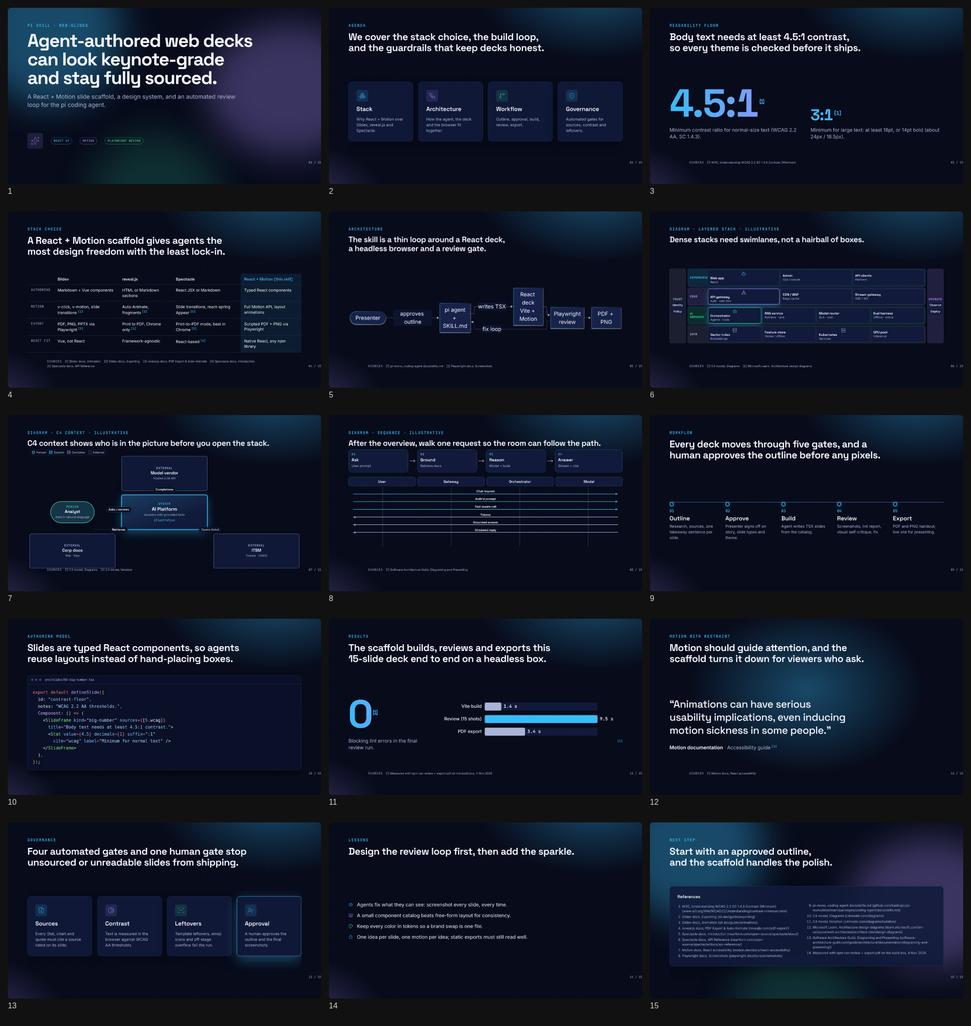
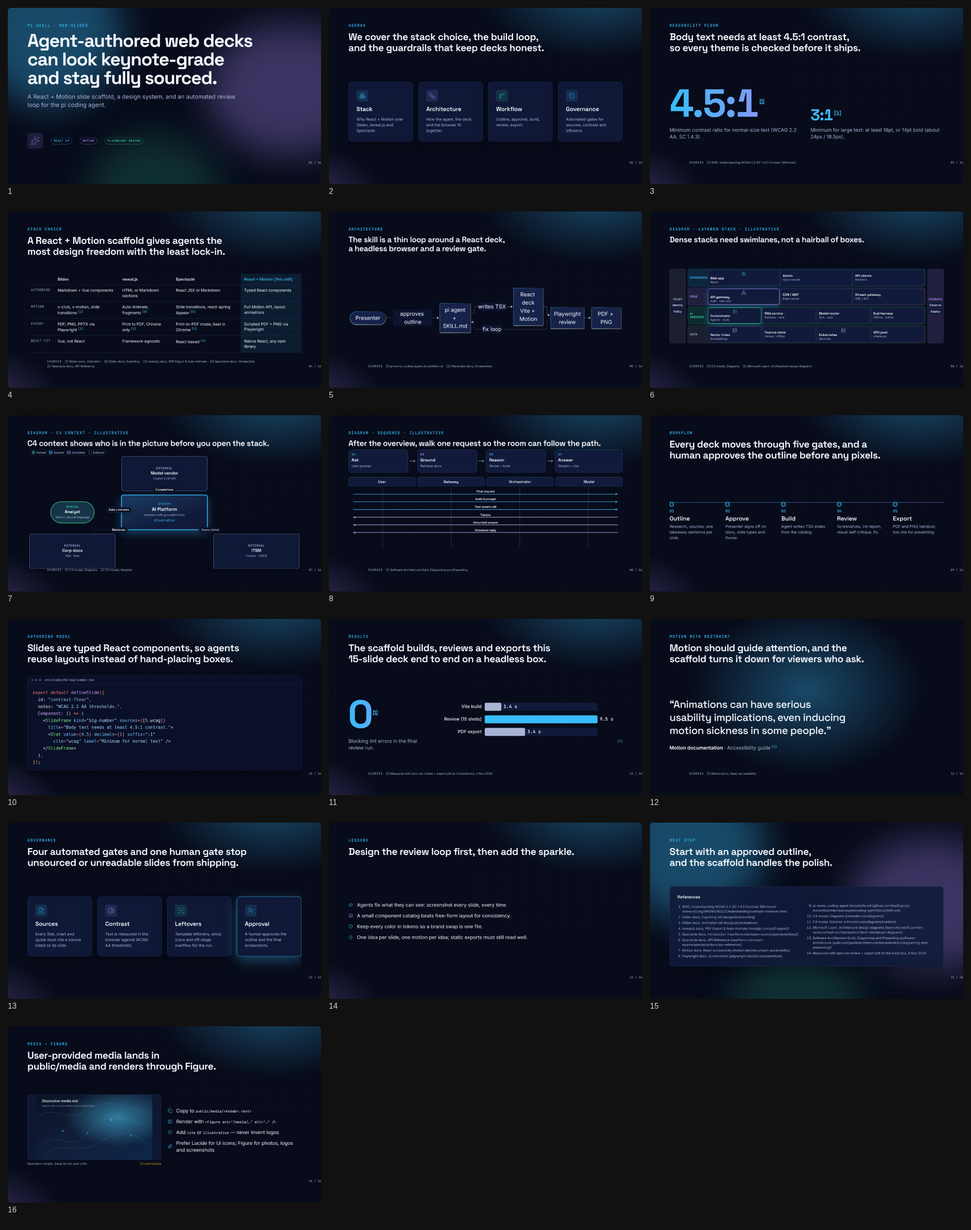
Teach agents to insert user media via Figure and media-guide
Add <Figure> (alt, fit, caption, cite/illustrative, frame/shadow, maxHeight), public/media/ with illustrative SVG, media-guide.md agent workflow, lint rules img-alt/img-broken, example slide 16-media-figure, and SKILL/workflow/catalog/checklist updates.

diff --git a/skills/web-slides/template/src/deck/deck.css b/skills/web-slides/template/src/deck/deck.css
@@ -281,3 +281,24 @@ table.compare th.col-hi { color: var(--accent); }
 .dg-c4-legend .kind-system::before { border-color: var(--accent); background: color-mix(in srgb, var(--accent) 40%, transparent); }
 .dg-c4-legend .kind-container::before { border-color: var(--accent-2); background: color-mix(in srgb, var(--accent-2) 30%, transparent); }
 .dg-c4-legend .kind-external::before { border-style: dashed; border-color: var(--text-muted); background: transparent; }
+
+
+/* ---- media / Figure ---- */
+.deck-figure { display: flex; flex-direction: column; gap: 12px; margin: 0; min-width: 0; max-width: 100%; }
+.deck-figure-stage { position: relative; display: flex; align-items: center; justify-content: center; width: 100%;
+  max-height: var(--figure-max-h, 620px); overflow: hidden; border-radius: var(--radius-sm);
+  background: color-mix(in srgb, var(--surface) 80%, transparent); flex: 0 1 auto; }
+.deck-figure.is-framed .deck-figure-stage { border: 1px solid var(--border); }
+.deck-figure.is-shadow .deck-figure-stage { box-shadow: 0 18px 48px color-mix(in srgb, var(--bg) 50%, transparent); }
+.deck-figure-stage img { display: block; width: 100%; height: 100%; max-height: var(--figure-max-h, 620px); object-position: center; }
+.deck-figure-stage.fit-contain img { object-fit: contain; }
+.deck-figure-stage.fit-cover img { object-fit: cover; }
+.deck-figure-cap { display: flex; align-items: baseline; gap: 10px; flex-wrap: wrap;
+  font: 500 18px/1.35 var(--font-body); color: var(--text-muted); }
+.deck-figure-caption { flex: 1 1 auto; }
+.deck-figure .illustrative, .deck-figure .cite { flex: 0 0 auto; }
+/* Text overlay when placing copy on top of a photo — agent must ensure WCAG by eye */
+.deck-figure-overlay { position: relative; }
+.deck-figure-overlay .deck-figure-stage::after { content: ""; position: absolute; inset: 0;
+  background: linear-gradient(180deg, transparent 35%, color-mix(in srgb, var(--bg) 88%, transparent) 100%);
+  pointer-events: none; }

diff --git a/skills/web-slides/template/src/slides/16-media-figure.tsx b/skills/web-slides/template/src/slides/16-media-figure.tsx
@@ -1,0 +1,39 @@
+import { Appear, Figure, IconList, SlideFrame } from "../deck/components";
+import { defineSlide } from "../deck/types";
+import { Copy, Image, ShieldCheck, Sparkles } from "lucide-react";
+
+export default defineSlide({
+  id: "media-figure",
+  notes:
+    "Illustrative only — shows how the agent places a user-provided file in public/media/ and renders it with <Figure>. Replace the SVG with the user's asset; never invent logos.",
+  Component: () => (
+    <SlideFrame
+      kind="content"
+      kicker="Media • Figure"
+      title="User-provided media lands in public/media and renders through Figure."
+    >
+      <div className="grid-2" style={{ alignItems: "center", gap: 40 }}>
+        <Appear variant="fade">
+          <Figure
+            src="/media/illustrative-mesh.svg"
+            alt="Abstract blue mesh sample for a user-supplied image"
+            fit="contain"
+            maxHeight={400}
+            illustrative
+            caption="Illustrative sample. Swap for the user's file."
+          />
+        </Appear>
+        <Appear delay={0.12}>
+          <IconList
+            items={[
+              { icon: Copy, text: <>Copy to <code style={{ fontFamily: "var(--font-mono)", fontSize: 22 }}>public/media/&lt;kebab&gt;.&lt;ext&gt;</code></> },
+              { icon: Image, text: <>Render with <code style={{ fontFamily: "var(--font-mono)", fontSize: 22 }}>&lt;Figure src="/media/…" alt="…" /&gt;</code></> },
+              { icon: ShieldCheck, text: <>Add <code style={{ fontFamily: "var(--font-mono)", fontSize: 22 }}>cite</code> or <code style={{ fontFamily: "var(--font-mono)", fontSize: 22 }}>illustrative</code> — never invent logos</> },
+              { icon: Sparkles, text: "Prefer Lucide for UI icons; Figure for photos, logos and screenshots" },
+            ]}
+          />
+        </Appear>
+      </div>
+    </SlideFrame>
+  ),
+});

diff --git a/skills/web-slides/template/src/deck/components.tsx b/skills/web-slides/template/src/deck/components.tsx
@@ -370,6 +370,45 @@ export function Gradient({ children }: { children: ReactNode }) {
 }
 
 
+
+/** Raster/SVG media from public/media or imported assets. Requires alt + cite|illustrative. */
+export function Figure({
+  src, alt, fit = "contain", caption, cite, illustrative, frame = true, shadow = true,
+  maxHeight = 620, className = "",
+}: {
+  src: string;
+  alt: string;
+  fit?: "contain" | "cover";
+  caption?: ReactNode;
+  cite?: string;
+  illustrative?: boolean;
+  frame?: boolean;
+  shadow?: boolean;
+  maxHeight?: number | string;
+  className?: string;
+}) {
+  const onError = () => reportError(`figure: failed to load ${src}`);
+  const h = typeof maxHeight === "number" ? `${maxHeight}px` : maxHeight;
+  return (
+    <figure
+      className={`deck-figure ${frame ? "is-framed" : ""} ${shadow ? "is-shadow" : ""} ${className}`}
+      data-figure="media"
+      style={{ ["--figure-max-h" as string]: h }}
+    >
+      <div className={`deck-figure-stage fit-${fit}`}>
+        <img src={src} alt={alt} loading="lazy" decoding="async" onError={onError} />
+      </div>
+      {(caption || cite || illustrative) && (
+        <figcaption className="deck-figure-cap">
+          {caption && <span className="deck-figure-caption">{caption}</span>}
+          <FigureMark cite={cite} illustrative={illustrative} />
+        </figcaption>
+      )}
+      {!caption && !cite && !illustrative && <span data-uncited="true" />}
+    </figure>
+  );
+}
+
 /* Diagram primitives (React + CSS). Prefer over Mermaid for >8 nodes / swimlanes. */
 export {
   LayeredArchitecture, FlowSteps, Sequence, C4Container, DiagramLegend,

diff --git a/skills/web-slides/template/scripts/lint-in-page.js b/skills/web-slides/template/scripts/lint-in-page.js
@@ -1,6 +1,6 @@
 // Runs inside the browser on one static slide. Returns a list of issues.
 // Rules: frame, title-sentence, source-missing, cite-unknown, leftover, emoji-icon,
-//        off-stage, footer-overlap, clipped, tiny-text, contrast.
+//        img-alt, img-broken, off-stage, footer-overlap, clipped, tiny-text, contrast.
 (() => {
   const issues = [];
   const add = (level, rule, msg, el) =>
@@ -22,9 +22,18 @@
 
   /* ---- sources ---- */
   stage.querySelectorAll("[data-uncited]").forEach((el) =>
-    add("error", "source-missing", "A Stat/BarChart/Quote has no `cite` (or `illustrative`).", el.parentElement));
+    add("error", "source-missing", "A Stat/BarChart/Quote/Figure has no `cite` (or `illustrative`).", el.parentElement));
   stage.querySelectorAll("[data-cite-missing]").forEach((el) =>
     add("error", "cite-unknown", `<Cite id="${el.dataset.cite}"> is not in this slide's sources.`, el.parentElement));
+
+  /* ---- media / images ---- */
+  stage.querySelectorAll("img").forEach((el) => {
+    if (!el.hasAttribute("alt")) add("error", "img-alt", "Image is missing an alt attribute. Use <Figure alt=\"...\">.", el);
+    else if (!(el.getAttribute("alt") || "").trim() && el.getAttribute("data-decorative") !== "true")
+      add("error", "img-alt", "Image alt is empty. Describe the image, or mark it data-decorative=\"true\".", el);
+    if (el.complete && el.naturalWidth === 0)
+      add("error", "img-broken", `Image failed to load: ${el.getAttribute("src") || "(no src)"}.`, el);
+  });
 
   /* ---- leftovers ---- */
   const text = stage.innerText;

diff --git a/skills/web-slides/template/src/slides/index.ts b/skills/web-slides/template/src/slides/index.ts
@@ -14,6 +14,7 @@ import quote from "./09-quote";
 import governance from "./10-governance";
 import lessons from "./11-lessons";
 import closing from "./12-closing";
+import mediaFigure from "./16-media-figure";
 // Live outline stubs (optional): uncomment the next two lines while using `npm run live`
 // and editing content/deck.outline.md. Replace stubs with polished slide files before ship.
 // import { outlineSlides } from "./generated/from-outline";
@@ -25,7 +26,7 @@ export const deck = defineDeck({
   slides: [
     title, agenda, bigNumber, comparison, architecture,
     layeredPlatform, c4Context, chatSequence,
-    timeline, code, results, quote, governance, lessons, closing,
+    timeline, code, results, quote, governance, lessons, closing, mediaFigure,
     // ...outlineSlides,
   ],
 });

diff --git a/skills/web-slides/SKILL.md b/skills/web-slides/SKILL.md
@@ -4,7 +4,7 @@ description: Build stunning, research-backed web slide decks (React + Vite + Mot
 license: MIT
 compatibility: Needs Node.js 20+ and npm, network access for npm install, and a Chromium for Playwright (npx playwright install chromium, or CHROME_PATH).
 metadata:
-  version: "0.3.0"
+  version: "0.4.0"
   stack: "react 19, vite 8, motion 14, playwright, mermaid, shiki, lucide-react"
 ---
 
@@ -20,7 +20,7 @@ Paths below are relative to this skill directory. Read files in `references/` wh
 2. **Every slide title is a full-sentence takeaway.** For example, "Ticket triage time fell 48% after the pilot." is a takeaway; "Results" is not.
 3. **Technical topics need four slide types:** architecture, results, governance (risk, security, controls, ownership) and lessons.
 4. **WCAG 2.2 AA contrast.** Normal text needs 4.5:1 and large text needs 3:1. `npm run check:tokens` and `npm run review` both enforce this.
-5. **Consistent icons.** Use only lucide-react through `<Icon>`, `<Card icon>` or `<IconList>`. Use one stroke weight and the fixed sizes. No emoji and no mixed icon sets.
+5. **Consistent icons.** Use only lucide-react through `<Icon>`, `<Card icon>` or `<IconList>`. Use one stroke weight and the fixed sizes. No emoji and no mixed icon sets. **User-provided logos/photos/screenshots** go through `<Figure>` — read `references/media-guide.md` and copy files into `public/media/`.
 6. **No template leftovers.** Delete every example slide you do not use. Do not leave lorem, TODO, TBD, `{{ }}`, example sources or "Illustrative" figures in a final deck unless the user agreed.
 7. **Theme by tokens only.** Every color, font and size lives in `src/theme/tokens.css`. A brand goes in `src/theme/brand.css` as `[data-theme="brand"]`. Never hard-code hex values in slides.
 
@@ -32,7 +32,7 @@ Follow these steps in order, and stop at the approval gate. The full details are
 2. **Research.** Collect sources into a working notes file with URLs and the exact figures and quotes. Prefer primary sources such as official docs, papers, filings and the user's own data.
 3. **Outline, then approval.** Write `outline.md` with one line per slide. Each line gives the slide number, the slide type from `references/slide-catalog.md`, the takeaway title, the key visual, and the source ids. **Show it to the user and wait for approval** before writing any TSX, unless they explicitly said to skip approval.
 4. **Scaffold.** Run `node scripts/new-deck.mjs <dir> --title "<takeaway title>" [--theme midnight|aurora|paper]`, then `cd <dir> && npm install && npx playwright install chromium`. Use `--keep-examples` only if you want the 12 example slides as a reference; delete them afterwards.
-5. **Build the slides.** Make one file per slide in `src/slides/NN-id.tsx`, register it in `src/slides/index.ts`, and add sources to `src/slides/sources.ts`. Copy patterns from `template/src/slides/*` (one example per slide type) and follow `references/design-guide.md`. For any architecture or flow visual, open `references/diagram-guide.md` and pick Mermaid vs `LayeredArchitecture` / `FlowSteps` / `Sequence` / `C4Container`. Use **`npm run dev`** (HMR present mode) or **`npm run live`** (HMR + outline watcher) while building — see Live mode below.
+5. **Build the slides.** Make one file per slide in `src/slides/NN-id.tsx`, register it in `src/slides/index.ts`, and add sources to `src/slides/sources.ts`. Copy patterns from `template/src/slides/*` (one example per slide type) and follow `references/design-guide.md`. For any architecture or flow visual, open `references/diagram-guide.md` and pick Mermaid vs `LayeredArchitecture` / `FlowSteps` / `Sequence` / `C4Container`. **When the user provides images, logos, screenshots or says "use this asset", follow `references/media-guide.md` end-to-end:** copy into `public/media/`, render with `<Figure src="/media/…" alt="…" cite|illustrative>`, then re-screenshot. Never invent logos or stock photos. Use **`npm run dev`** (HMR present mode) or **`npm run live`** (HMR + outline watcher) while building — see Live mode below.
 6. **Screenshots and review.** Run `npm run review`. It builds the deck, screenshots every slide in its final state into `review/`, writes `review/contact-sheet.png` and `review/report.md`, and exits non-zero on errors.
 7. **Self-review.** Open the contact sheet and every slide PNG and look at them; do not trust the lint alone. Go through `references/review-checklist.md`. Fix the issues and run review again until there are 0 errors and every warning is fixed or justified. Use `npm run review -- --steps` to check click-step states.
 8. **Export.** Run `npm run export:pdf`, which writes `export/deck.pdf` with vector, selectable text. If blur or glow effects print wrong, also run `npm run export:pdf -- --raster` for `export/deck-raster.pdf`. `npm run export:png` writes PNGs to `export/png/`. `npm run verify` runs the token check, build, review and PDF export in one go.
@@ -43,9 +43,19 @@ Follow these steps in order, and stop at the approval gate. The full details are
 - The stage is 1920×1080 and scaled to fit. Present mode keys: ←/→, Space, PgUp/PgDn, Home/End, **N** notes, **O** overview, **F** fullscreen. URLs look like `#/slide/step`.
 - `?static&slide=N&step=final` renders one slide for screenshots, and `?print` renders all slides for PDF. In both, motion is off and every step is shown.
 - Click steps: set `steps: n` on the slide, then use `<Appear at={k}>`, `<Stagger stepwise>`, `<IconList stepwise>`, `<Timeline>`, or `<Code focus={[...]}>`.
-- Components (`src/deck/components.tsx`): `SlideFrame`, `Appear`, `Stagger`, `Card`, `Icon`, `Pill`, `Stat`, `BarChart`, `Mermaid`, `Code`, `Timeline`, `Quote`, `IconList`, `Gradient`, `Cite`.
+- Components (`src/deck/components.tsx`): `SlideFrame`, `Appear`, `Stagger`, `Card`, `Icon`, `Pill`, `Stat`, `BarChart`, `Figure`, `Mermaid`, `Code`, `Timeline`, `Quote`, `IconList`, `Gradient`, `Cite`.
 - Diagrams (`src/deck/diagrams.tsx`, re-exported): `LayeredArchitecture`, `FlowSteps`, `Sequence`, `C4Container`, `DiagramLegend`. **Read `references/diagram-guide.md`** before drawing — Mermaid for ≤8-node flows; React+CSS for swimlanes, C4 and sequences. Prop tables are in `references/slide-catalog.md`.
 - Motion follows the viewer's `prefers-reduced-motion` setting through `MotionConfig reducedMotion="user"`.
+
+## User media (agent)
+
+When the user drops a file or says "use this logo / screenshot / image", **you** insert it — do not only describe how:
+
+1. Copy the file to `public/media/<kebab-name>.<ext>` in the deck.
+2. Add `<Figure src="/media/…" alt="…" cite="…" />` (or `illustrative`) on the slide.
+3. Run `npm run review` and confirm the screenshot shows the asset.
+
+Full rules: `references/media-guide.md`. Example: `template/src/slides/16-media-figure.tsx`.
 
 ## Live mode (real-time preview)
 
@@ -60,5 +70,5 @@ Do not treat outline stubs as final deck quality. Diagrams, motion and tight lay
 
 - Don't put more than about 40 words of body text on a slide; move detail to the `notes`.
 - Don't use text smaller than 18px on the stage (the lint enforces this, including diagram text). Don't use more than 6 cards or 5 bullets. Don't put more than 8 nodes in Mermaid; for denser architecture use `LayeredArchitecture` / `C4Container` / `Sequence` (see `diagram-guide.md`), and still split if a swimlane exceeds 6 layers or 5 cells.
-- Don't use `position: absolute` for content outside SlideFrame, and don't use raw hex colors, external images you don't have rights to, or stock "AI brain" art.
+- Don't use `position: absolute` for content outside SlideFrame, and don't use raw hex colors, hotlinked images you don't have rights to, invented logos, or stock "AI brain" art. Put user media in `public/media/` via `<Figure>`.
 - Don't skip the approval gate or the screenshot review.

diff --git a/skills/web-slides/references/media-guide.md b/skills/web-slides/references/media-guide.md
@@ -1,0 +1,85 @@
+# Media guide (agent workflow)
+
+Teach the **agent** how to insert user-provided images, logos, screenshots and custom icons into a deck. Humans can follow the same steps; the skill expects the agent to do them unprompted when the user drops an asset or says "use this logo / screenshot / image".
+
+## When the user provides an asset
+
+1. **Save the file into the deck.** Copy it to `public/media/<kebab-descriptive-name>.<ext>` in the deck project (Vite serves `public/` at `/`). Prefer the user's original filename cleaned to kebab-case (`Acme Logo.png` → `logo-acme.png`). Keep the original format when possible (SVG / PNG / WebP).
+2. **Do not invent.** Never generate, download, or fabricate a company logo, product UI, photo of a person, or stock "AI brain" art. If the user did not supply it, ask or use Lucide / a diagram instead.
+3. **Render with `<Figure>`**, not a raw `<img>`, so cite/illustrative and lint rules apply:
+
+```tsx
+import { Figure, SlideFrame } from "../deck/components";
+
+<Figure
+  src="/media/logo-acme.svg"
+  alt="Acme Corp wordmark"
+  fit="contain"          // contain = full logo visible; cover = crop to fill
+  maxHeight={280}
+  cite="brandKit"        // or illustrative
+  caption="Brand kit, used with permission"
+  frame
+  shadow
+/>
+```
+
+4. **Register a source** when the asset is factual evidence (screenshot of a dashboard, chart from a report). Put the source in `sources.ts` and on the slide's `sources={[...]}`. Decorative or demo-only media uses `illustrative`.
+5. **Re-run review.** After wiring the slide: `npm run review` (or HMR via `npm run dev`). Confirm the PNG shows the asset, alt is present, and lint is clean (`img-alt`, `img-broken`, `source-missing`).
+6. **Hand-off.** Mention which media files were added under `public/media/` and whether each is cited or illustrative.
+
+## Where files live
+
+| Location | Use |
+|---|---|
+| `public/media/` | **Default.** Logos, screenshots, photos. Referenced as `/media/file.ext`. Copied by `new-deck.mjs`. |
+| `src/assets/` | Only if you need Vite imports / hashed URLs. Prefer `public/media/` so paths stay stable in notes and PDFs. |
+
+Keep a short `public/media/README.md` in the template; do not commit secrets or private screenshots the user did not ask to include.
+
+## Lucide vs custom image
+
+| Need | Use |
+|---|---|
+| UI metaphor (shield, rocket, database) | `<Icon>` / `Card icon` / `IconList` from **lucide-react** only |
+| Brand logo, product screenshot, photo, diagram export the user supplied | `<Figure src="/media/…">` |
+| Architecture / flow you are drawing | Diagram components (`diagram-guide.md`), not a pasted PNG, unless the user provided a diagram image to show as evidence |
+
+Never mix emoji or a second icon pack with Lucide.
+
+## Sizing for the 1920×1080 stage
+
+- Safe content area is roughly **1680×860** inside SlideFrame padding. Target figure **maxHeight 420–620** for a hero image; **180–280** for a logo strip.
+- Prefer **`fit="contain"`** for logos and UI screenshots (no crop). Use **`fit="cover"`** only for full-bleed photos where cropping is intentional.
+- Source resolution: aim for at least **2×** the displayed CSS size (e.g. a 800px-wide display → ≥1600px-wide PNG) so export/PDF stays sharp. SVG for logos when available.
+- Do not stretch a tiny favicon into a hero. If the asset is too small, ask the user for a higher-res file.
+- Leave margin above the footer band; `Figure` captions count as content for footer-overlap lint.
+
+## WCAG and text over images
+
+- Every `<Figure>` / `<img>` needs a meaningful **`alt`**. Empty alt only for purely decorative images marked `data-decorative="true"` (avoid this in decks).
+- **Do not put body text directly on a busy photo** without a scrim. If you must overlay a title, wrap with `className="deck-figure-overlay"` (adds a bottom gradient) **and** check the screenshot by eye — automated contrast lint cannot measure text over images.
+- Prefer text beside the image (`.grid-2`) rather than on top of it.
+- Captions stay ≥18px (theme caption size).
+
+## Cite / illustrative rules
+
+- Same as `Stat` / `BarChart` / `Quote`: every `Figure` needs **`cite="id"`** or **`illustrative`**.
+- Screenshots used as proof → cite the report / system / date.
+- Brand logos supplied by the user for a pitch → usually `illustrative` or a `brandKit` source the user confirmed.
+- Lint fails on missing cite (`source-missing`), missing alt (`img-alt`), and failed loads (`img-broken` / `render`).
+
+## Review checklist (media)
+
+- [ ] File exists under `public/media/` and `src` path is `/media/…`.
+- [ ] `alt` describes the image for someone who cannot see it.
+- [ ] `cite` or `illustrative` is set; illustrative figures show the label.
+- [ ] Image is fully on-stage; caption does not hit the footer.
+- [ ] No invented logos or unlicensed stock.
+- [ ] Contact-sheet PNG shows the real asset (not a broken-image icon).
+
+## Anti-patterns
+
+- Hotlinking `https://…` logos you do not have rights to.
+- Embedding base64 blobs in TSX for large photos (use `public/media/`).
+- Using a screenshot as a substitute for a redrawn architecture diagram when you could use `LayeredArchitecture` / `C4Container`.
+- Leaving the template `illustrative-mesh.svg` in a final customer deck.

diff --git a/skills/web-slides/references/review-checklist.md b/skills/web-slides/references/review-checklist.md
@@ -6,7 +6,8 @@ Run `npm run review`, then go through this list with the screenshots open. Every
 
 - [ ] `frame`: every slide uses SlideFrame.
 - [ ] `title-sentence`: titles have 5 or more words and end with punctuation.
-- [ ] `source-missing` / `cite-unknown`: every Stat, BarChart and Quote cites a source listed on that slide.
+- [ ] `source-missing` / `cite-unknown`: every Stat, BarChart, Quote and Figure cites a source listed on that slide (or is `illustrative`).
+- [ ] `img-alt` / `img-broken`: every `<img>` / `<Figure>` has meaningful alt text and loads successfully.
 - [ ] `leftover`: no lorem, TODO, TBD, FIXME, placeholder, `{{ }}`, undefined or NaN.
 - [ ] `emoji-icon`: no emoji.
 - [ ] `off-stage`, `footer-overlap`, `clipped`: nothing spills off the stage, into the footer, or out of a container.
@@ -23,6 +24,7 @@ Run `npm run review`, then go through this list with the screenshots open. Every
 - [ ] There's enough whitespace: no slide feels crammed (over 40 words is a smell).
 - [ ] Gradient text and text over glows are clearly readable, since the lint can't measure these.
 - [ ] Icons are all lucide with the same stroke, and the same concept uses the same icon everywhere.
+- [ ] User-provided media sits under `public/media/`, uses `<Figure>`, and is cited or marked illustrative (see `media-guide.md`). No invented logos.
 - [ ] Charts are labelled with units and timeframes, start at zero, and highlight the bar the title mentions.
 - [ ] Diagram type matches the scenario (see `diagram-guide.md`): Mermaid only if ≤8 nodes; swimlanes / C4 / sequence use the React components.
 - [ ] Layered maps: ≤6 layers, ≤5 cells per layer; C4: one zoom level, ≤8 boxes; Sequence: ≤6 actors, ≤8 messages.

diff --git a/skills/web-slides/references/slide-catalog.md b/skills/web-slides/references/slide-catalog.md
@@ -17,7 +17,7 @@ Every type has a working example in `template/src/slides/` (in the skill dir). C
 | `lessons` | What we learned / would do differently | `11-lessons.tsx` | `IconList stepwise` |
 | `closing` | The ask or next step, plus references | `12-closing.tsx` | `background="aurora"`, references from `allSources` |
 | `section` | Divider between parts (title may be short) | (use `title` pattern) | `SlideFrame kind="section" center` |
-| `content` | Anything else | — | `.grid-2/3/4`, `Card`, `IconList` |
+| `content` | Anything else; media showcase | `16-media-figure.tsx` | `.grid-2/3/4`, `Card`, `IconList`, `Figure` |
 
 A technical deck must include `architecture`, `results`, `governance` and `lessons`.
 
@@ -46,6 +46,8 @@ A technical deck must include `architecture`, `results`, `governance` and `lesso
 - **IconList** `{ items: {icon, text, tone?}[], stepwise? }`. Use 5 items or fewer.
 - **Gradient** wraps one or two key words in the title or hero in accent gradient text. Use it at most once per slide.
 - **Cite** `{ id }` is an inline citation marker for text claims and table cells.
+- **Figure** `{ src, alt, fit?: "contain"|"cover", caption?, cite | illustrative, frame?, shadow?, maxHeight? }`
+  - User-provided media from `public/media/` (URL `/media/…`). Requires `alt` and `cite` or `illustrative`. See `media-guide.md` and example `16-media-figure.tsx`.
 
 
 ## Diagram components (`src/deck/diagrams.tsx`)

diff --git a/README.md b/README.md
@@ -14,6 +14,7 @@ An agent skill for the [pi coding agent](https://github.com/badlogic/pi-mono) th
   - The lint fails on emoji icons, template leftovers (lorem, TODO, `{{ }}`, NaN), overflow and text under 18px.
 - **13 slide types with working examples:** title, agenda, big number, architecture (Mermaid **or** React swimlanes / C4 / sequence), comparison, timeline, code walkthrough (Shiki with per-step focus), quote, results (count-up stat + animated bars), governance, lessons, closing and section.
 - **Diagram guide:** `skills/web-slides/references/diagram-guide.md` teaches when to use Mermaid (≤8 nodes) vs `LayeredArchitecture`, `FlowSteps`, `Sequence`, `C4Container` (React + CSS, no heavy graph library).
+- **Media guide:** `skills/web-slides/references/media-guide.md` teaches the **agent** to copy user-provided logos/screenshots into `public/media/` and render them with `<Figure>` (alt + cite/illustrative, lint for missing alt / broken src).
 - **Swappable theme tokens:** the built-in themes are `midnight`, `aurora` and `paper`. A brand palette goes in `brand.css` and is a single-file change.
 - **Presenting:** arrow keys or clicks with click-steps, **N** notes, **O** overview, **F** fullscreen, and `prefers-reduced-motion` respected.
 

diff --git a/skills/web-slides/references/workflow.md b/skills/web-slides/references/workflow.md
@@ -47,6 +47,18 @@ cd ./decks/<slug> && npm install && npx playwright install chromium
 - **Live + outline:** `npm run live` also watches `content/deck.outline.md` and regenerates `src/slides/generated/from-outline.tsx`. Uncomment `outlineSlides` in `index.ts` to preview stubs; refine into real slide files before review.
 - Run `npm run typecheck` to catch prop mistakes early.
 
+## 5b. User-provided media (agent does this)
+
+If the user attaches or pastes an image, logo, screenshot or says "use this asset":
+
+1. Write the bytes to `public/media/<kebab-name>.<ext>` (create the folder if needed).
+2. On the slide, import `Figure` and render `<Figure src="/media/…" alt="…" cite|illustrative maxHeight={…} />`.
+3. Prefer Lucide for abstract UI icons; use Figure for brand/photo/screenshot evidence.
+4. Do **not** invent logos or download unlicensed stock. If the asset is missing, ask.
+5. Re-run `npm run review` so screenshots and `img-alt` / `img-broken` lint cover the new media.
+
+Details and sizing: `media-guide.md`.
+
 ## 6 and 7. Review loop
 
 ```bash

diff --git a/skills/web-slides/references/design-guide.md b/skills/web-slides/references/design-guide.md
@@ -45,6 +45,12 @@ The goal is a deck that looks designed rather than generated: one clear idea per
 - Charts should start at zero and use 3 to 7 bars. Highlight the bar that the title talks about.
 - If a figure is an example or a projection that you were asked to show, mark it `illustrative` and say so in the notes.
 
+## Media (photos, logos, screenshots)
+
+- Read `references/media-guide.md`. User assets live in `public/media/` and render through `<Figure>`.
+- Lucide for icons; Figure for anything the user supplied. Never invent logos or stock art.
+- Always set `alt` and `cite` or `illustrative`. Keep logos `fit="contain"`; check text-over-image by eye.
+
 ## Diagrams
 
 - Read `references/diagram-guide.md` before drawing. Pick the type from the scenario matrix; do not default to Mermaid for dense stacks.
